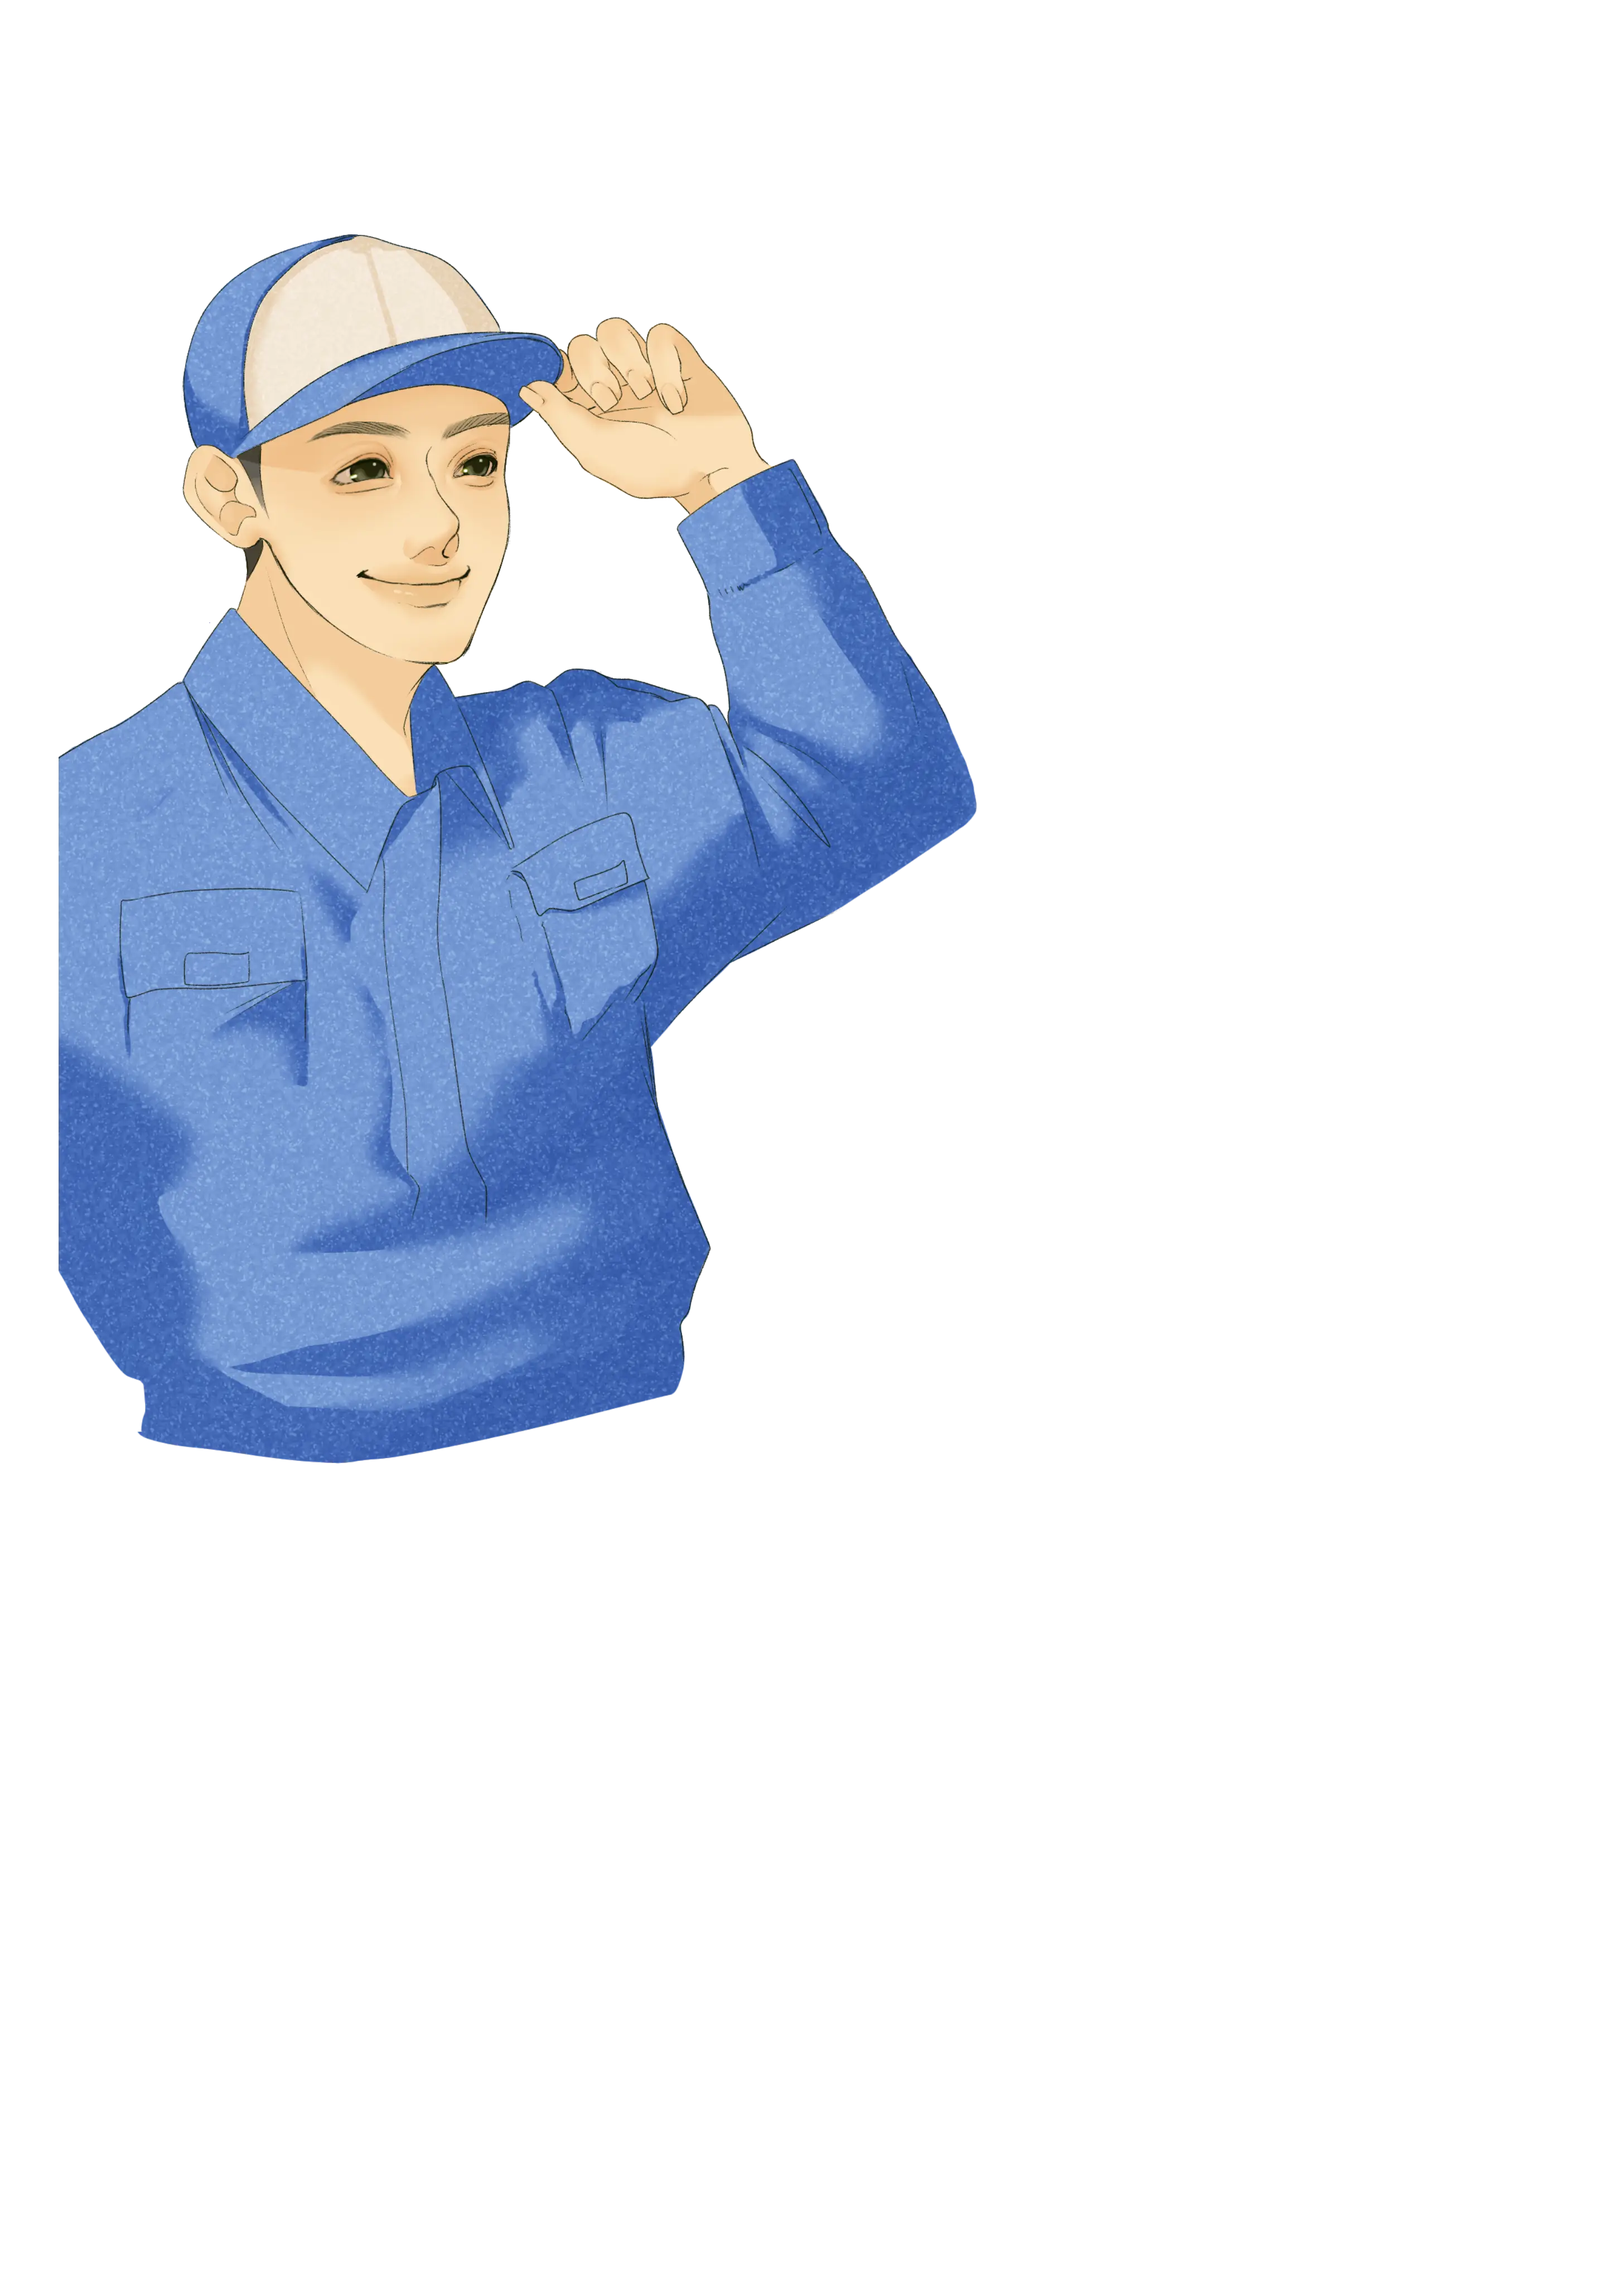
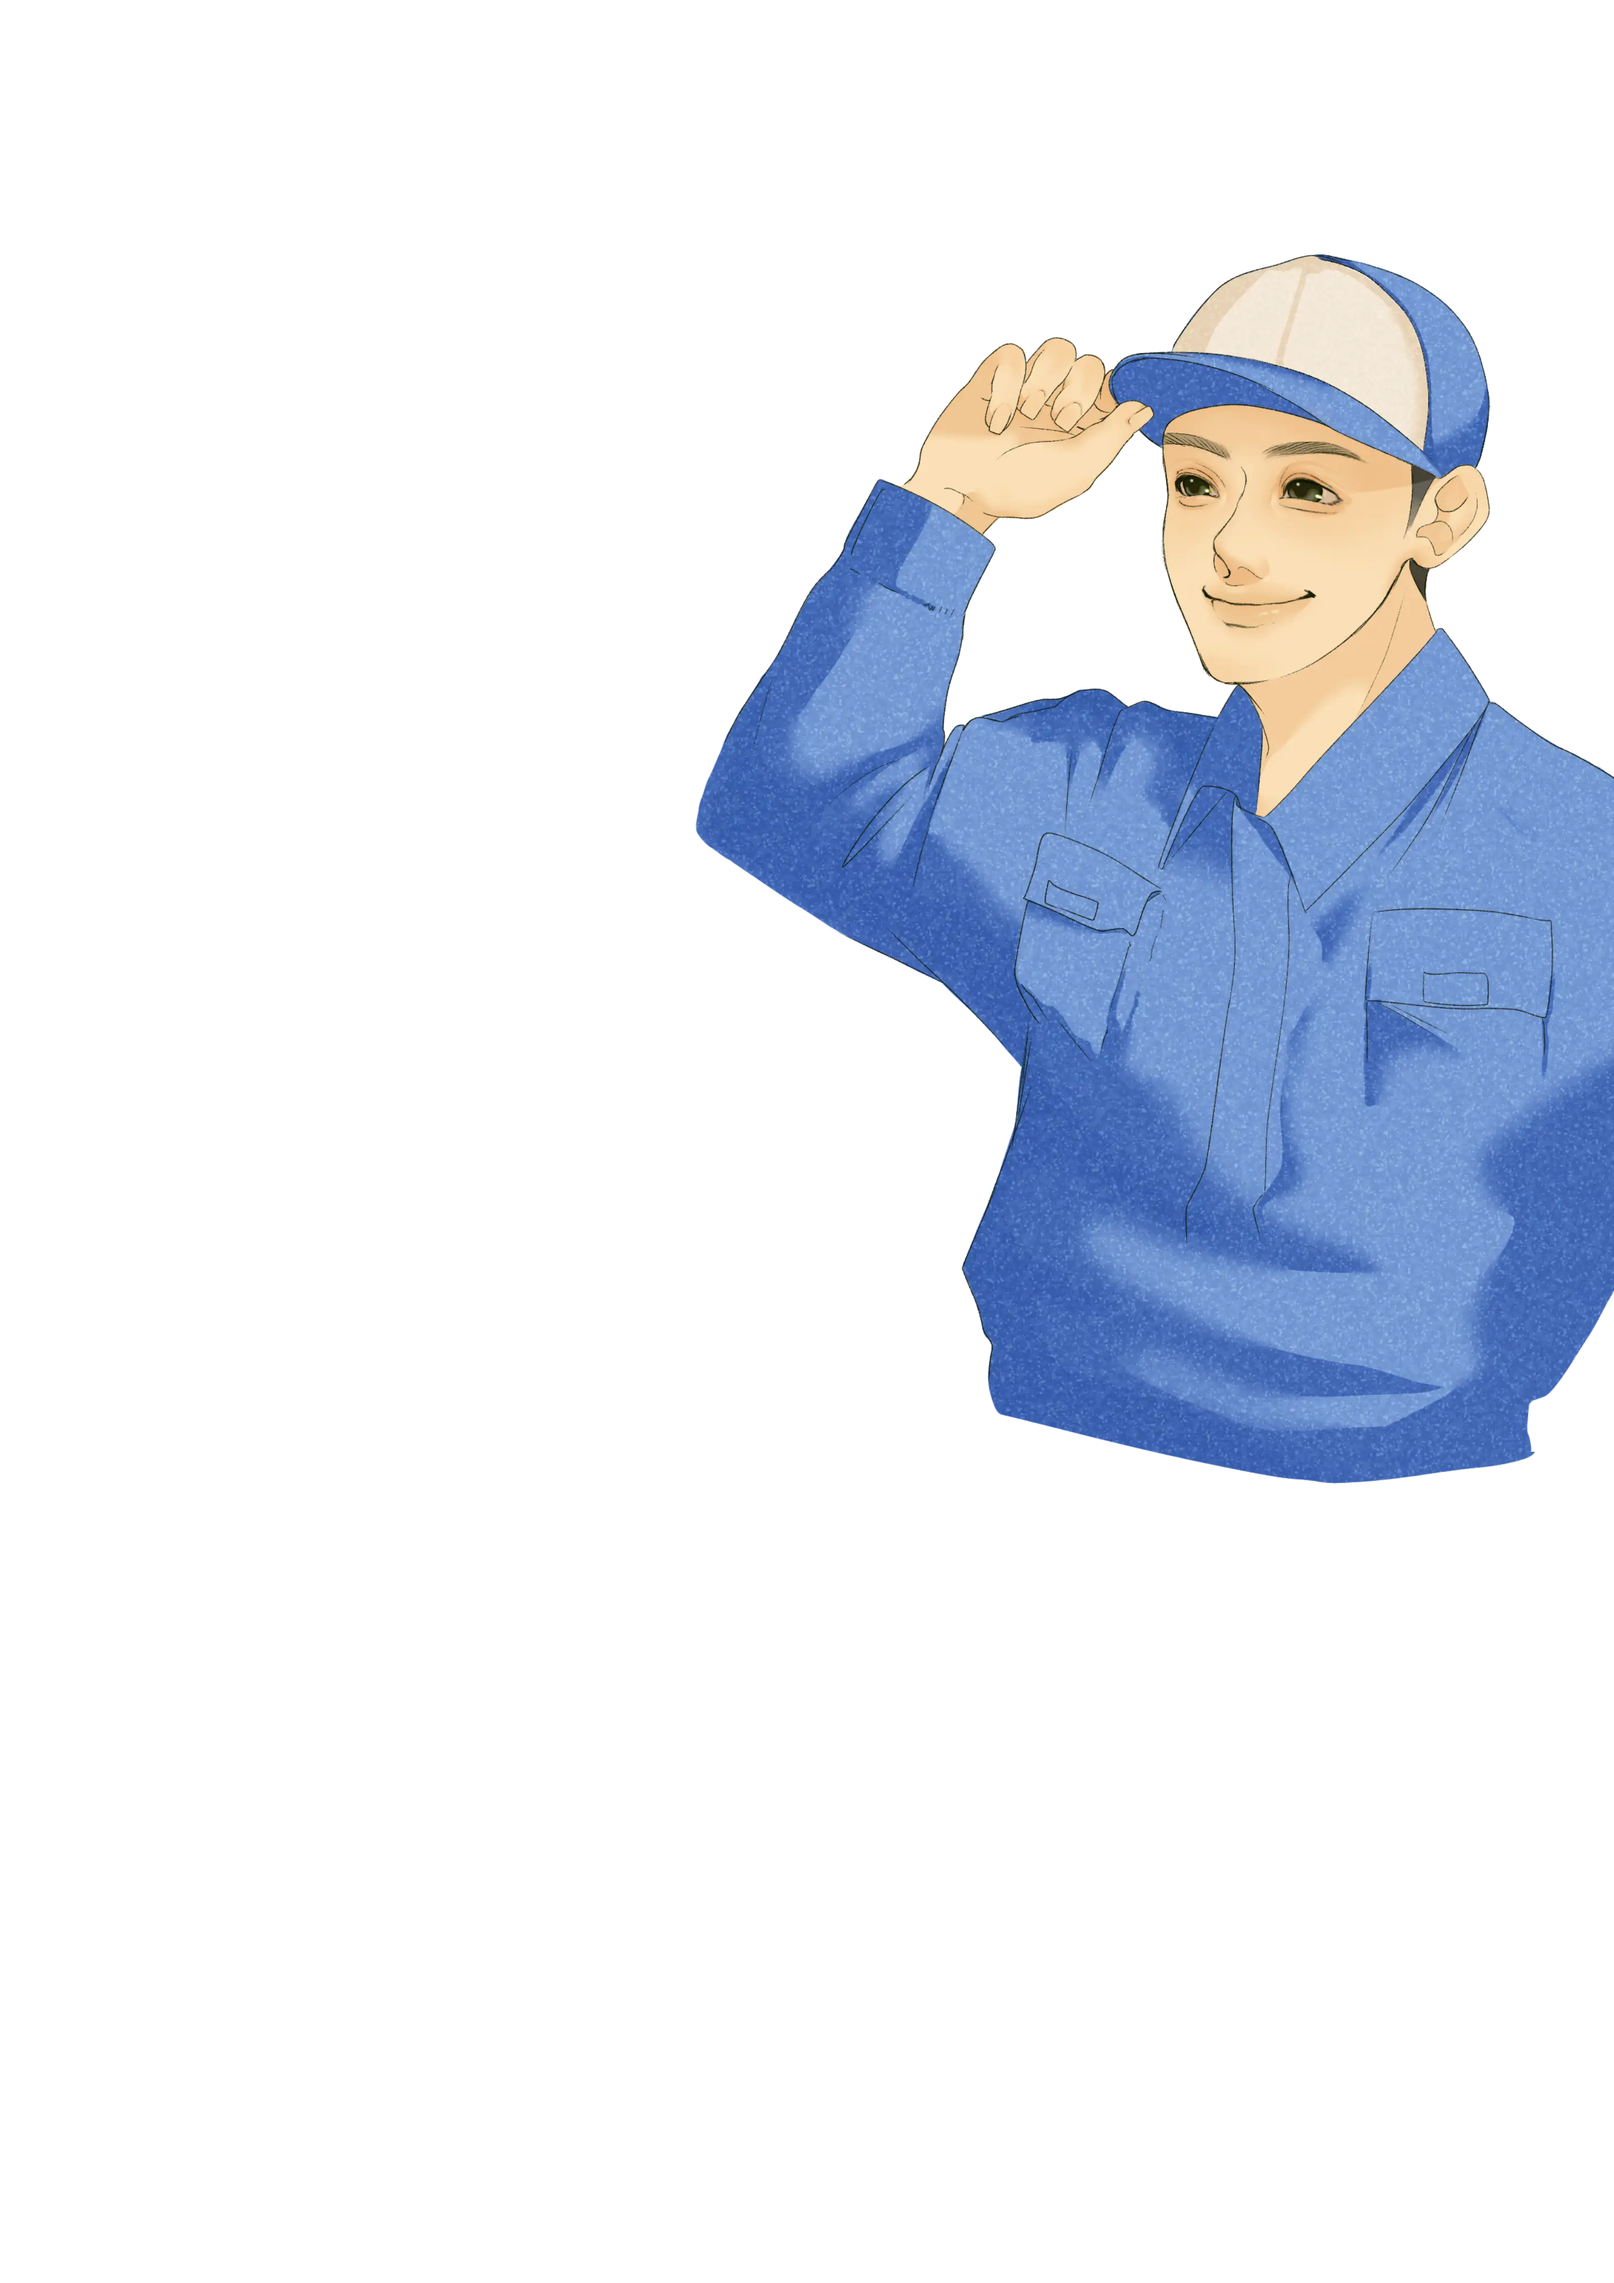
Mapのデザイン変更。フッターとの隙間なくした

diff --git a/index.html b/index.html
@@ -126,7 +126,7 @@
                 <span class="page-card-line"></span>
                 <span class="page-card-subtitle">スタンプラリー</span>
             </a>
-            <a class="page-card scroll-card" style="--card-delay:0.4s; background-image:linear-gradient(rgba(17,31,42,.62),rgba(17,31,42,.62)), url(images/hyoushi/kikai.webp); background-position:center,center 18%; background-size:cover,cover; background-repeat:no-repeat" href="access.html">
+            <a class="page-card scroll-card" style="--card-delay:0.4s; background-image:linear-gradient(rgba(17,31,42,.62),rgba(17,31,42,.62)), url(images/hyoushi/kikai_2.webp); background-position:center,center 18%; background-size:cover,cover; background-repeat:no-repeat" href="access.html">
                 <span class="page-card-title">Access</span>
                 <span class="page-card-line"></span>
                 <span class="page-card-subtitle">交通アクセス</span>

diff --git a/style/exhibitions.css b/style/exhibitions.css
@@ -10,7 +10,7 @@ body {
     flex-direction: column;
     width: min(100% - 32px, 520px);
     margin: 0 auto;
-    padding: 80px 0 42px;
+    padding: 80px 0 0;
 }
 
 .exhibition-title {
@@ -1107,4 +1107,9 @@ body {
     .exhibition-title {
         margin-bottom: 60px;
     }
+}
+
+/* フッターとの隙間をなくす */
+.site-footer {
+    margin-top: 0;
 }

diff --git a/exhibitions.html b/exhibitions.html
@@ -42,7 +42,7 @@
 
     </head>
 
-    <body class="dots">
+    <body class="dots grid">
 
         <header class="site-header" id="siteHeader">
             <div class="logo">Menu</div>
